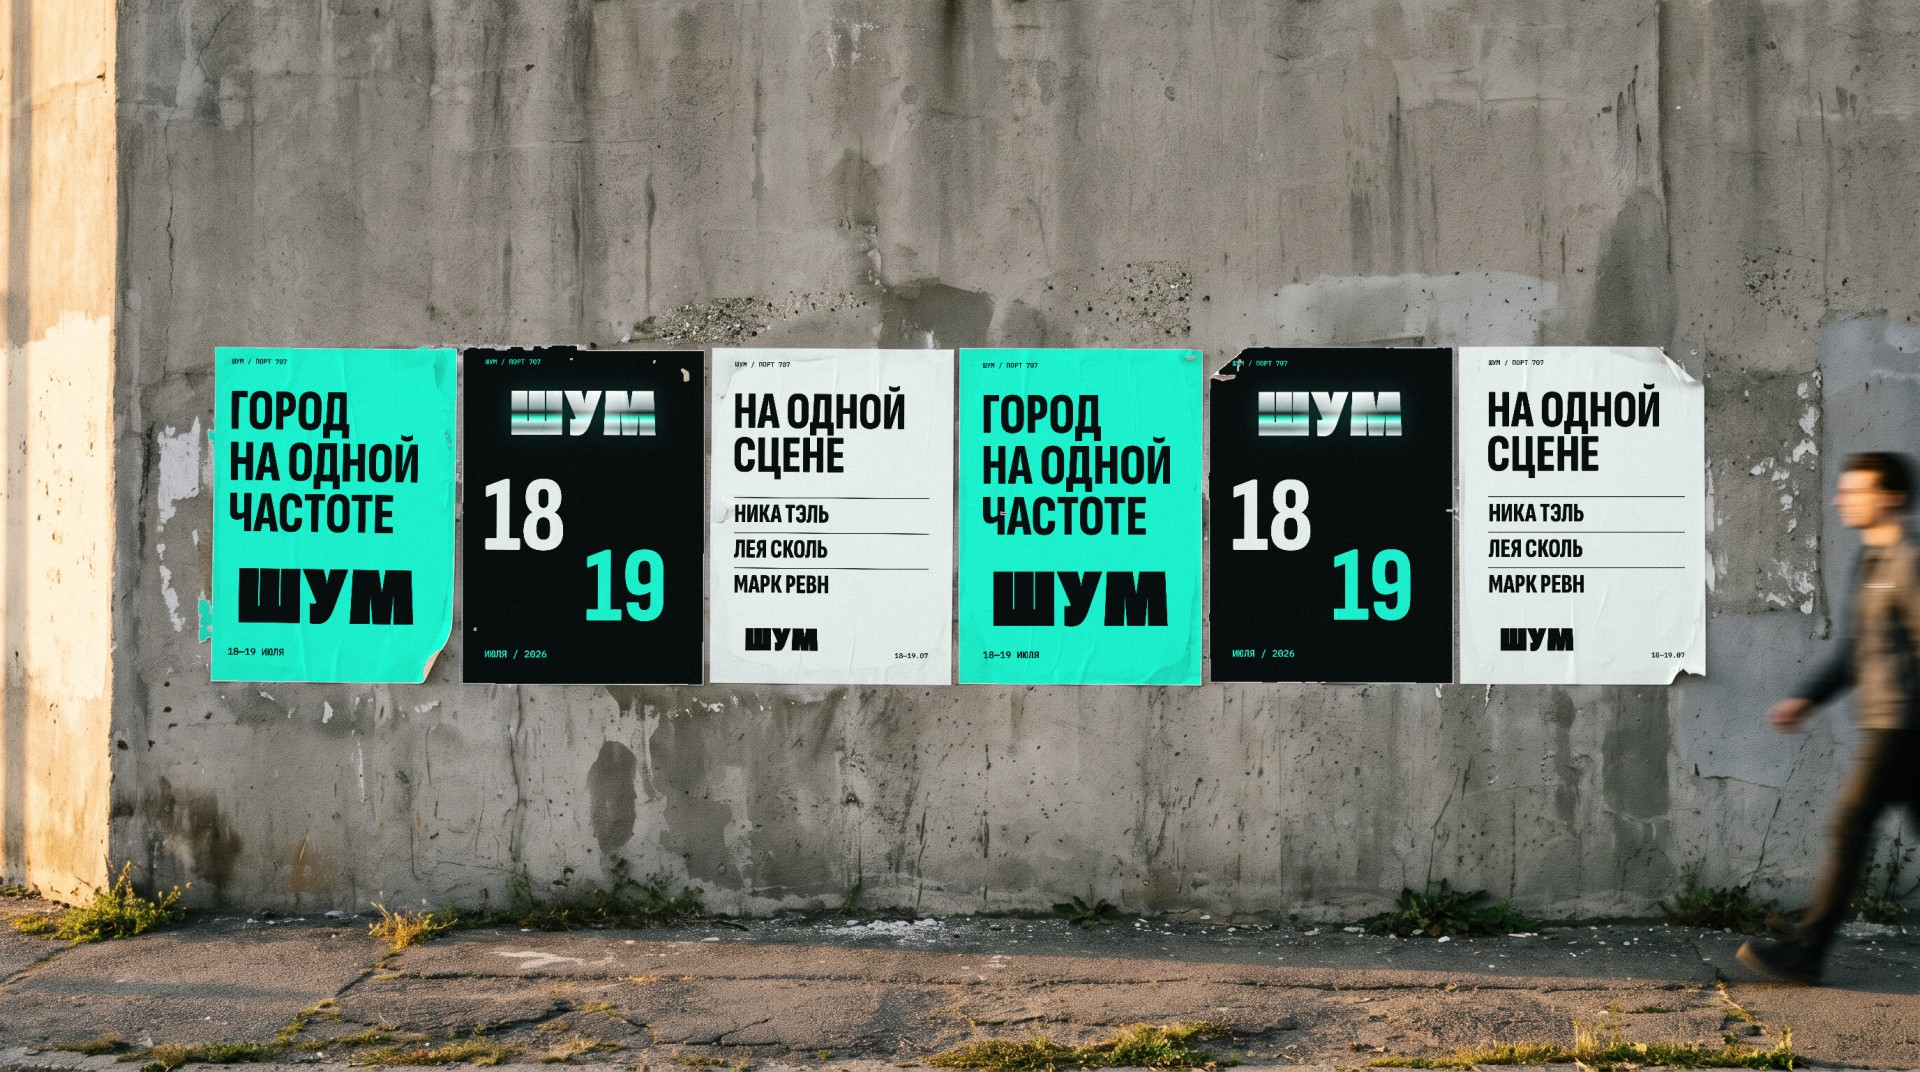
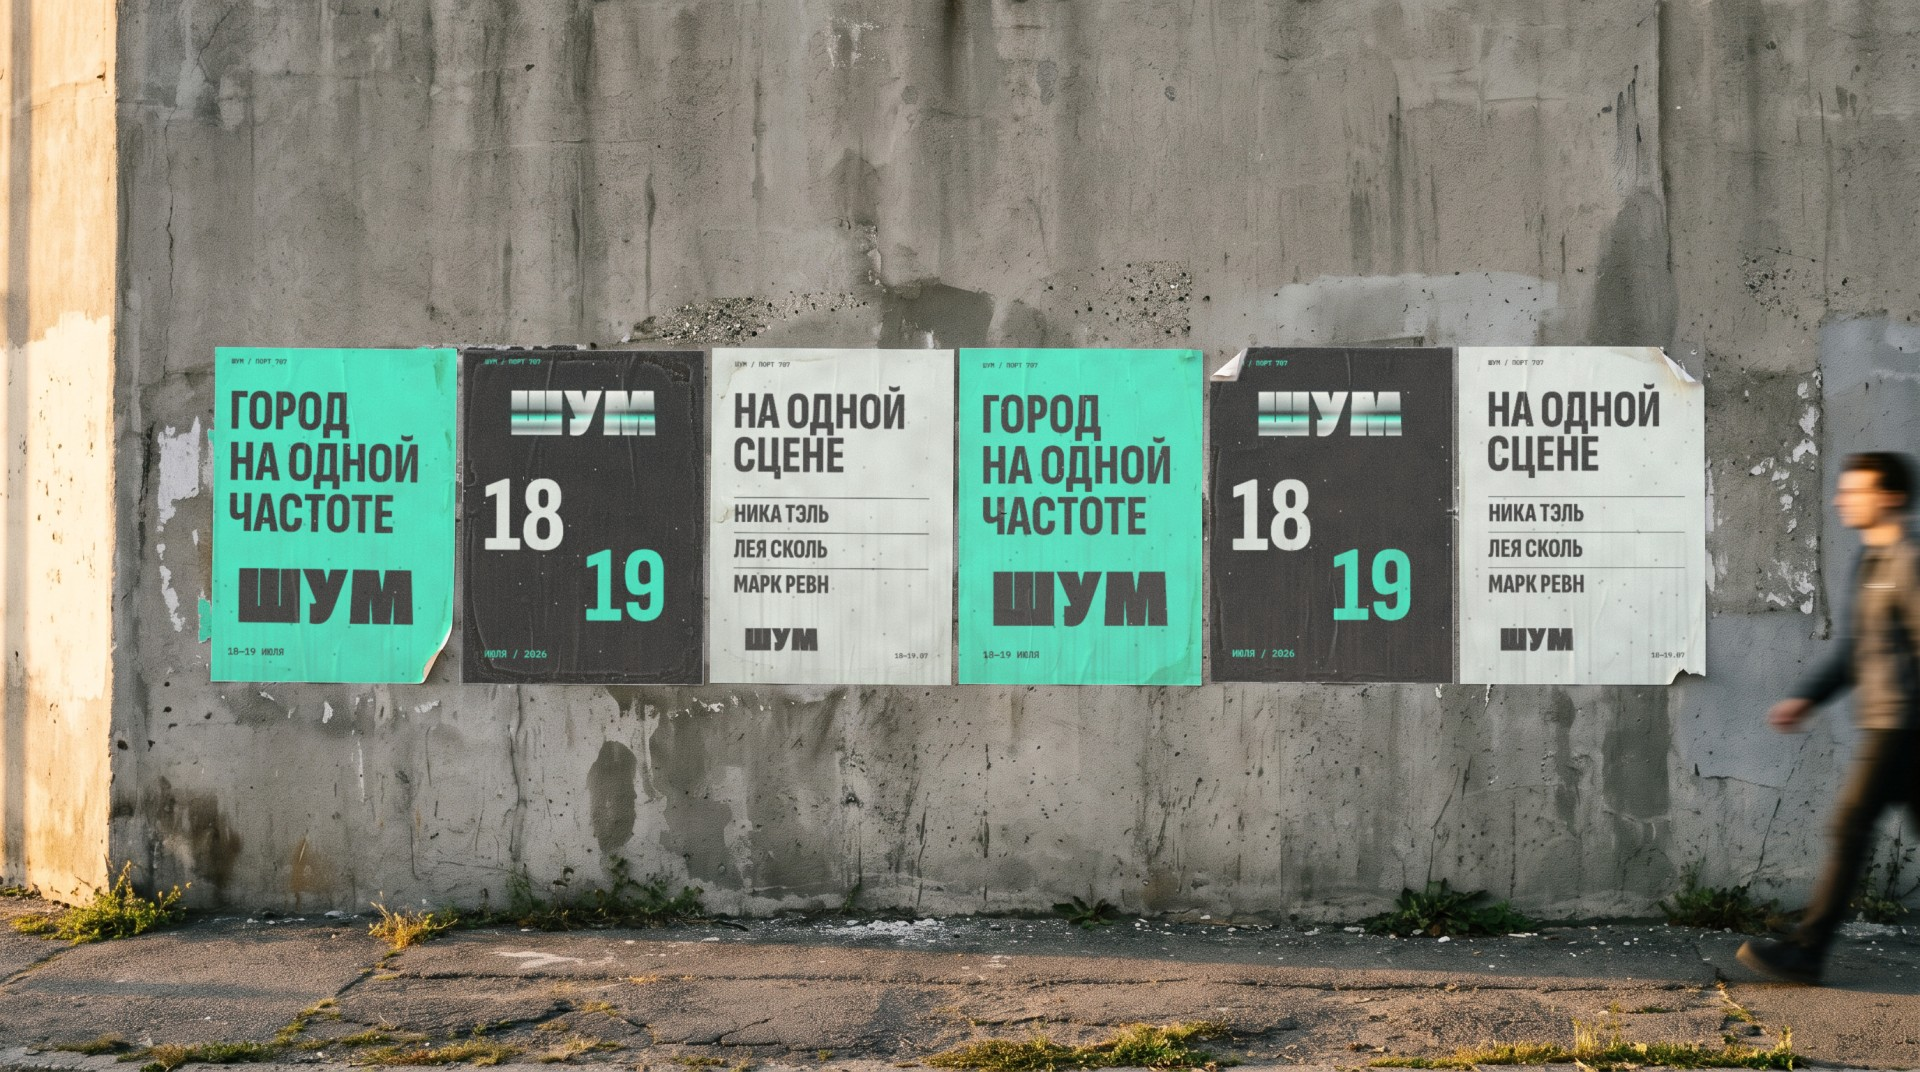
«Шум»: расклейка с грязью, складками и выцветанием

Changed region(s): [[0.0938, 0.3078, 0.9062, 0.6465], [0.4375, 0.3078, 0.4688, 0.3386]]

diff --git a/data.js b/data.js
@@ -284,7 +284,7 @@ window.WORKS = [
       reel: { video: "works/shum-motion/reel.mp4?v=8", poster: "works/shum-motion/reel-poster.jpg?v=8", w: 1080, h: 1920, title: "Ритм считывается без звука", description: "Крупные слова, сдвиги дат и&nbsp;имена участников входят по&nbsp;счёту. Каждые четыре доли — новый план. Последний кадр возвращает к&nbsp;первому." },
       phone: { video: "works/shum-motion/phone.mp4?v=8", poster: "works/shum-motion/phone-poster.jpg?v=8", w: 1080, h: 1446, title: "Рилс «Шума» в телефоне у гостя фестиваля" },
       city: { video: "works/shum-motion/busstop.mp4?v=8", poster: "works/shum-motion/busstop-poster.jpg?v=8", w: 1920, h: 1072, title: "Город на одной частоте.", description: "Цифровой лайтбокс на&nbsp;остановке играет живым шрифтом, а&nbsp;расклейка держит тот&nbsp;же ритм на&nbsp;бетоне.", caption: "Остановка ночью · петля 8 секунд" },
-      wall: { src: "works/shum-motion/wall.jpg?v=8", alt: "Шесть афиш «Шума» расклеены на бетонной стене: даты, участники и слоган", caption: "Расклейка в промзоне · три афиши серии" },
+      wall: { src: "works/shum-motion/wall.jpg?v=9", alt: "Шесть афиш «Шума» расклеены на бетонной стене: даты, участники и слоган", caption: "Расклейка в промзоне · три афиши серии" },
       merch: { src: "works/shum-motion/merch.jpg?v=8", title: "В руках у гостей.", description: "Билет, бейдж, браслет и&nbsp;футболка собраны из&nbsp;того&nbsp;же знака и&nbsp;той&nbsp;же палитры.", alt: "Билет, бейдж участника, браслет и футболка с знаком «Шум» на тёмном бетоне", caption: "Билет, бейдж, браслет, футболка" }
     },
     gallery: [
